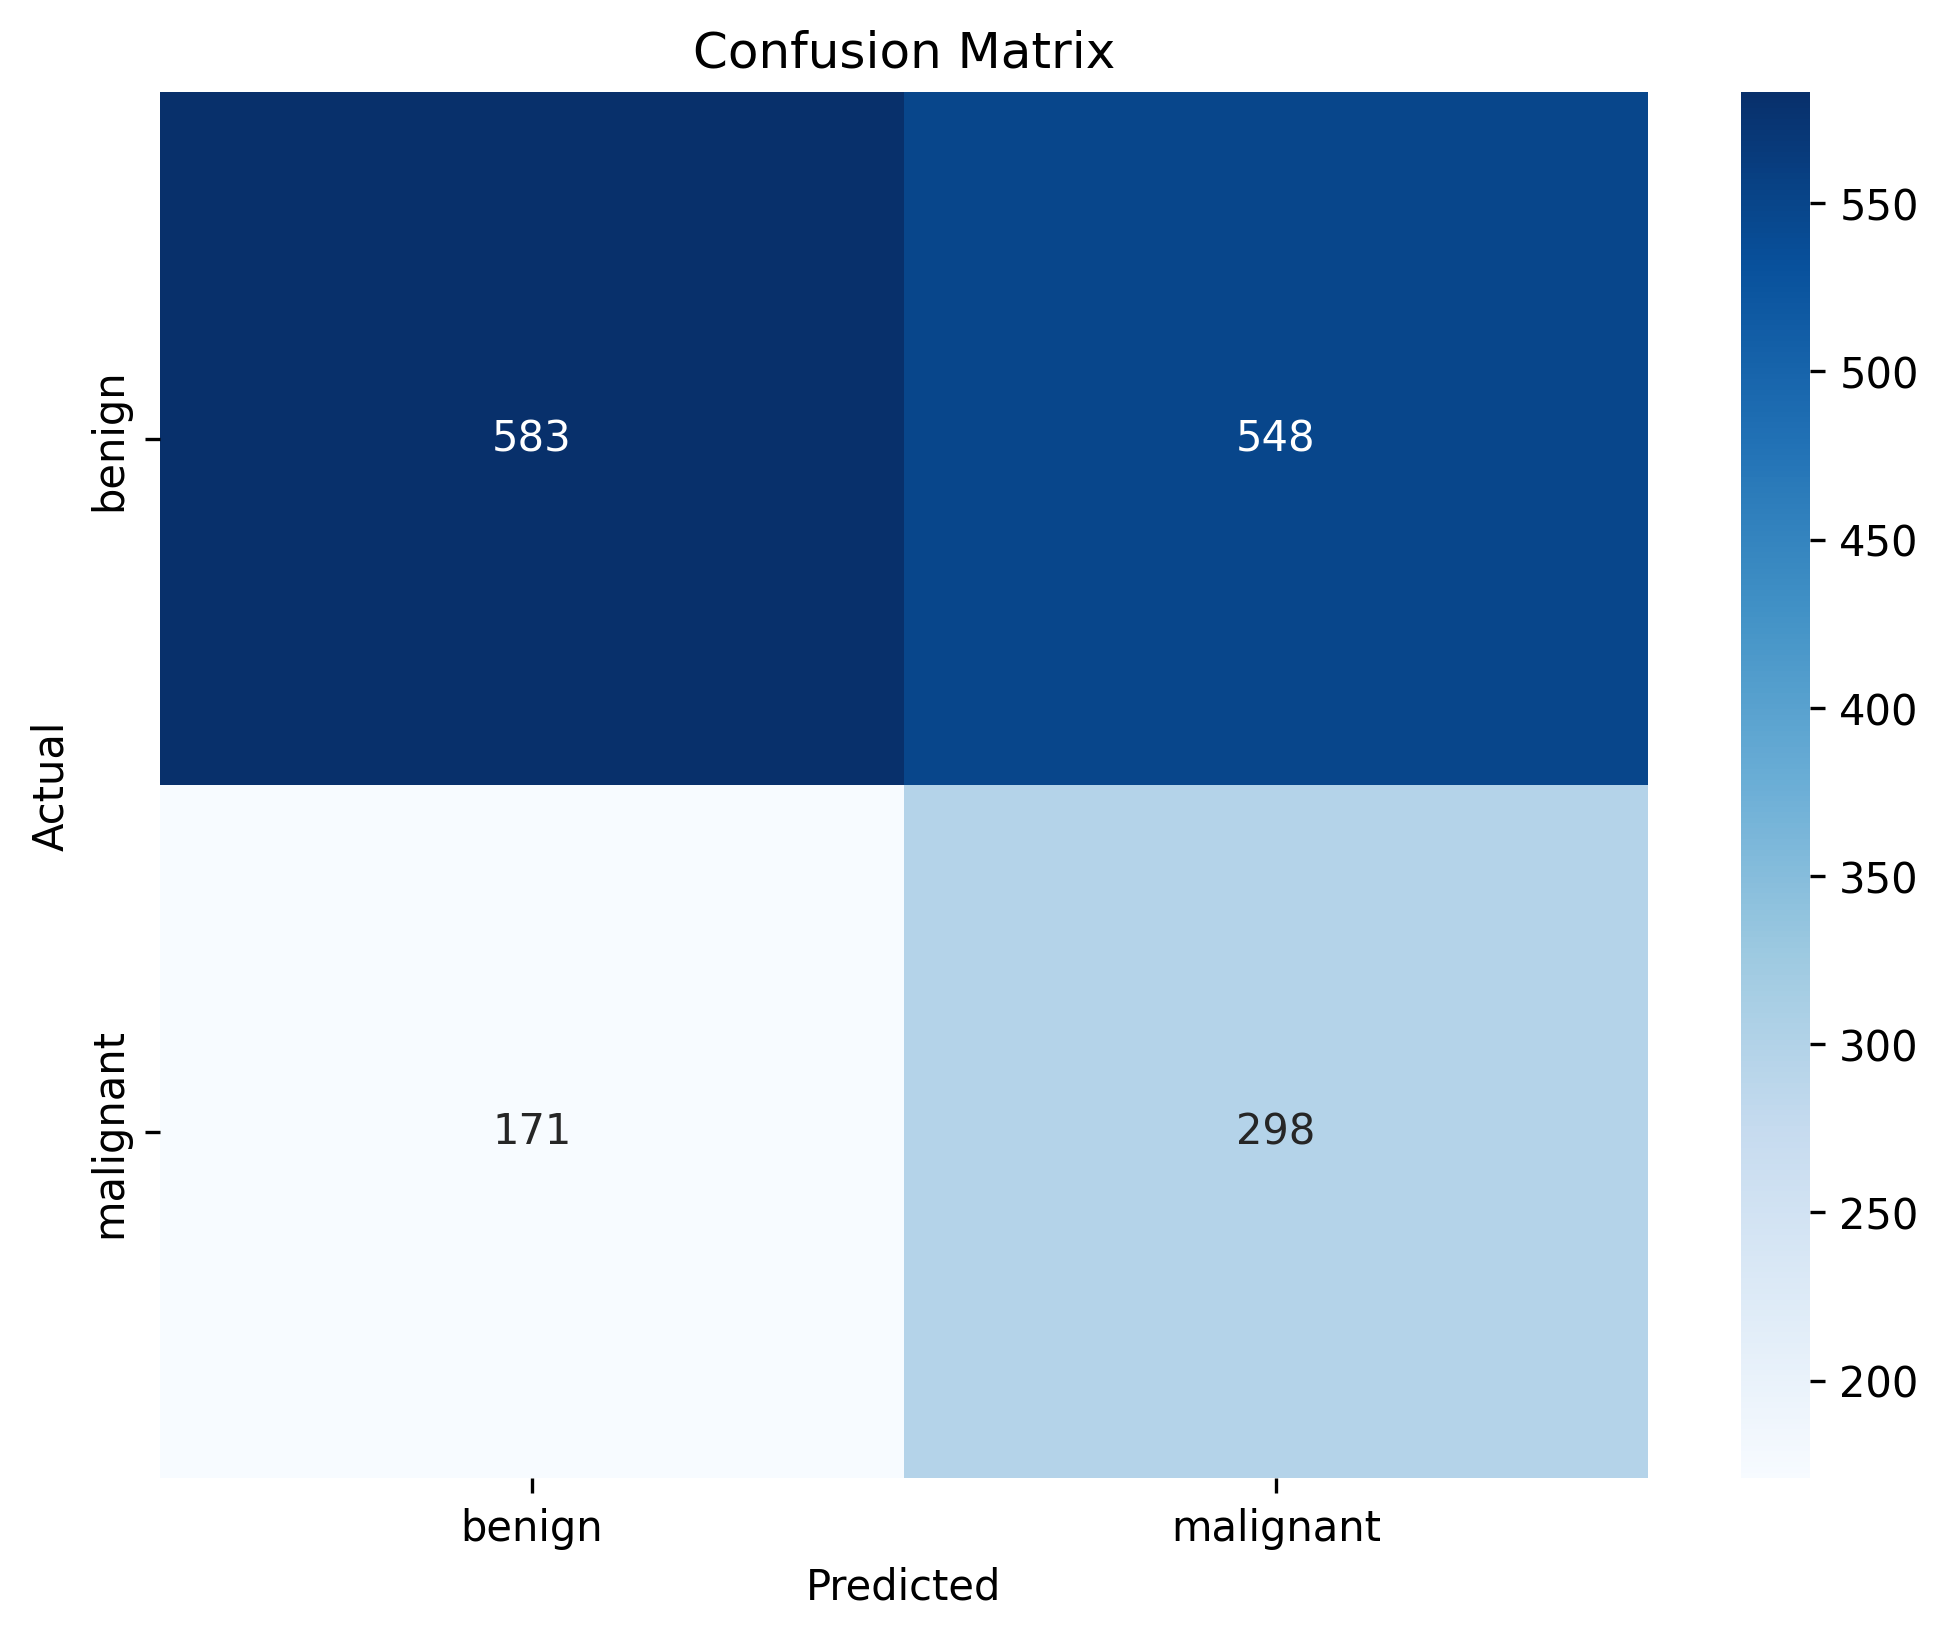
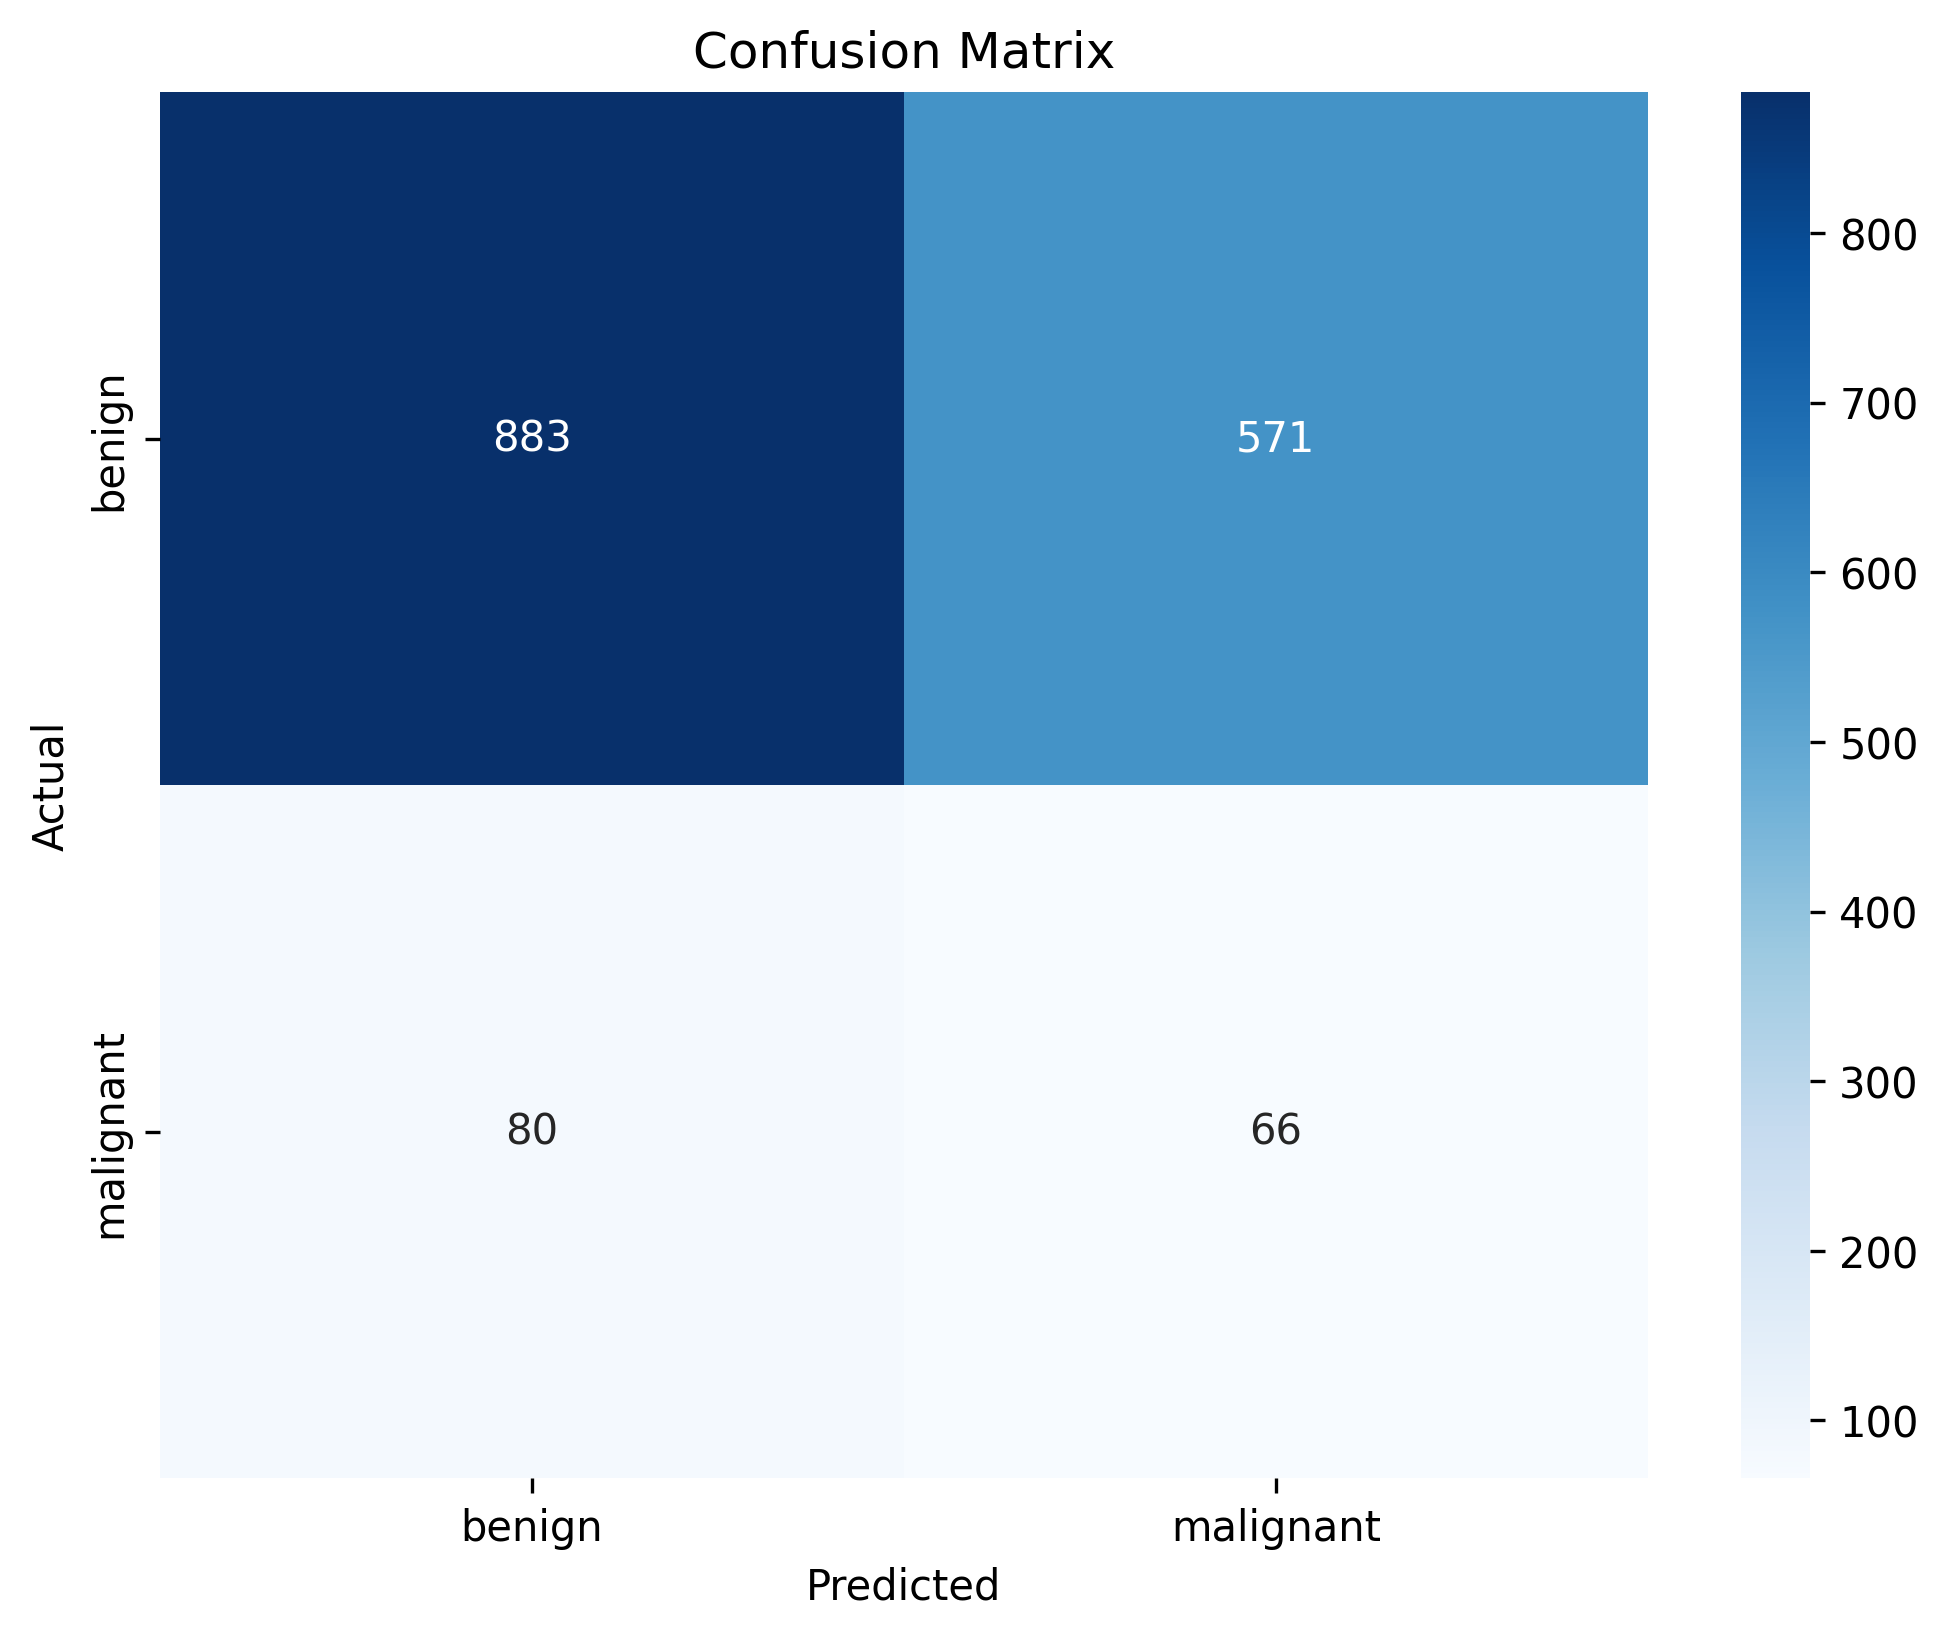
REFACTOR: some readme changes, small edits to arch and dataset. new conda env yaml

diff --git a/recognition/siamese_kaggle_48020774/dataset.py b/recognition/siamese_kaggle_48020774/dataset.py
@@ -39,23 +39,25 @@ class PreprocessLayer(layers.Layer):
 
     def __init__(self, **kwargs):
         super().__init__(**kwargs)
+        self.jit = layers.RandomColorJitter([0, 255], 0.1, 0.1, 0.1, 0.1)
 
     def call(self, inputs):
         # More diverse data augmentation for better generalization
         inputs = tf.image.random_flip_left_right(inputs)
         inputs = tf.image.random_flip_up_down(inputs)
+        inputs = self.jit(inputs)
         
         # Color augmentations with more variation
-        inputs = tf.image.random_brightness(inputs, max_delta=0.15)  # Increased from 0.1
-        inputs = tf.image.random_contrast(inputs, lower=0.8, upper=1.2)  # Increased range
-        inputs = tf.image.random_saturation(inputs, lower=0.8, upper=1.2)  # Increased range
-        inputs = tf.image.random_hue(inputs, max_delta=0.15)  # Increased from 0.1
+        # inputs = tf.image.random_brightness(inputs, max_delta=0.15)  # Increased from 0.1
+        # inputs = tf.image.random_contrast(inputs, lower=0.8, upper=1.2)  # Increased range
+        # inputs = tf.image.random_saturation(inputs, lower=0.8, upper=1.2)  # Increased range
+        # inputs = tf.image.random_hue(inputs, max_delta=0.15)  # Increased from 0.1
         
         # Random crop and resize for translation invariance
-        shape = tf.shape(inputs)
-        crop_size = tf.cast(tf.cast(shape[1:3], tf.float32) * 0.9, tf.int32)  # 90% crop
-        inputs = tf.image.random_crop(inputs, [shape[0], crop_size[0], crop_size[1], shape[3]])
-        inputs = tf.image.resize(inputs, [256, 256])
+        # shape = tf.shape(inputs)
+        # crop_size = tf.cast(tf.cast(shape[1:3], tf.float32) * 0.9, tf.int32)  # 90% crop
+        # inputs = tf.image.random_crop(inputs, [shape[0], crop_size[0], crop_size[1], shape[3]])
+        # inputs = tf.image.resize(inputs, [256, 256])
         
         return inputs
     
@@ -79,7 +81,7 @@ class TrainTestPreprocessor(layers.Layer):
         return inputs
 
 class Dataset:
-    def __init__(self, data_dir: str, max_images: int, class_split: float, train_split: int):
+    def __init__(self, data_dir: str, class_split: float, train_split: int):
         """
         Loads all images from a folder into a single 4-D tenso.
         
@@ -179,8 +181,8 @@ class Dataset:
         neg_labeled = neg_paths.map(lambda p: (p, tf.constant(0, tf.int32)), num_parallel_calls=tf.data.AUTOTUNE)
 
         # validation anchors (finite; no repeat)
-        pos_val_anchors = pos_labeled.take(k_pos).repeat()
-        neg_val_anchors = neg_labeled.take(k_neg).repeat()
+        pos_val_anchors = pos_labeled.take(k_pos)
+        neg_val_anchors = neg_labeled.take(k_neg)
 
         # training anchors (infinite; repeat + shuffle)
         pos_train_stream = pos_labeled.skip(k_pos).repeat().shuffle(8192, reshuffle_each_iteration=True)

diff --git a/recognition/siamese_kaggle_48020774/modules.py b/recognition/siamese_kaggle_48020774/modules.py
@@ -1,4 +1,4 @@
-from keras import layers, models, losses, optimizers, ops, metrics, Model
+from keras import layers, models, losses, optimizers, ops, metrics, Model, applications
 import tensorflow as tf
 import dataset
 
@@ -127,21 +127,24 @@ class EncoderHead(layers.Layer):
     def __init__(self, **kwargs):
         super().__init__(**kwargs)
         self.flat = layers.Flatten()
-        self.dense1 = layers.Dense(512, activation='relu')
-        self.dropout1 = layers.Dropout(0.7)  # Increased from 0.5
+        self.dense1 = layers.Dense(1024, activation='relu')
+        self.dropout1 = layers.Dropout(0.3)  # Increased from 0.5
         self.dense2 = layers.Dense(512, activation='relu')  # Reduced from 512
-        self.dropout2 = layers.Dropout(0.7)  # Increased from 0.5
+        self.dropout2 = layers.Dropout(0.3)  # Increased from 0.5
         self.dense3 = layers.Dense(256, activation='relu')  # Reduced from 256
+        self.dropout3 = layers.Dropout(0.3)  # Increased from 0.5
 
     def call(self, resnet_output):
         # haha python is stupid
-        return self.dense3(
-            self.dropout2(
-                self.dense2(
-                    self.dropout1(
-                        self.dense1(
-                            self.flat(
-                                resnet_output
+        return self.dropout3(
+            self.dense3(
+                self.dropout2(
+                    self.dense2(
+                        self.dropout1(
+                            self.dense1(
+                                self.flat(
+                                    resnet_output
+                                )
                             )
                         )
                     )
@@ -151,8 +154,8 @@ class EncoderHead(layers.Layer):
 
 
 def construct_classifier():
-    base_cnn = tf.keras.applications.ResNet50(
-        include_top=False, 
+    base_cnn = applications.ResNet50(
+        include_top=False,
         weights='imagenet', 
         input_shape=INPUT_SHAPE
     )

diff --git a/recognition/siamese_kaggle_48020774/config.py b/recognition/siamese_kaggle_48020774/config.py
@@ -12,7 +12,7 @@ class Config(object):
         if cls._instance is None:
             print('Creating new instance')
             cls._instance = cls.__new__(cls)
-            cls._config_json = json.load(open('recognition/siamese_kaggle_48020774/utility/config.json'))
+            cls._config_json = json.load(open('utility/config.json'))
             # Put any initialization here.
         return cls._instance
 

diff --git a/recognition/siamese_kaggle_48020774/train.py b/recognition/siamese_kaggle_48020774/train.py
@@ -53,7 +53,6 @@ def train(model : Model, dataset : dataset.Dataset, epochs : int):
         epochs=epochs,
         steps_per_epoch=100,  # Increased from 60 for better learning
         validation_data=test_ds,
-        validation_steps=50,  # Increased proportionally
         callbacks=[save_callback, lr_scheduler, early_stopping]
     )
     print("Recording history...")

diff --git a/recognition/siamese_kaggle_48020774/predict.py b/recognition/siamese_kaggle_48020774/predict.py
@@ -7,7 +7,6 @@ if __name__ == "__main__":
     print("Preparing dataset...")
     data = dataset.Dataset(
         config['data_dir'],
-        config["max_images_in_ds"],
         config['class_split'],
         config['train_split']
     )

diff --git a/recognition/siamese_kaggle_48020774/README.md b/recognition/siamese_kaggle_48020774/README.md
@@ -2,7 +2,7 @@
 
 <h2> Prerequisites </h2>
 
-Ensure you have [Miniconda](https://www.anaconda.com/docs/getting-started/miniconda/main) installed.
+Ensure you have [Anaconda](https://www.anaconda.com/docs/getting-started/anaconda/main) installed.
 
 <h2> Notes </h2>
 
@@ -36,9 +36,6 @@ Below is a list of hyperparameters and their functions
 | Name | Function |
 | ---- | -------- |
 | `data_dir`         | Directory where the dataset is stored relative to working directory|
-| `train_size`       | the number of images to use in the training dataset          |
-| `test_size`        | the number of images to use in the testing dataset           |
-| `validate_size`    | the number of images to use in the validation dataset        |
 | `class_split`      | Proportion of positive (malignant) samples in the dataset.   |
 | `batch_size`       | Number of samples per training batch.                  |
 | `epochs`           | Number of training epochs.                             |
@@ -207,30 +204,6 @@ dataset into RAM before training, not only causes the training metrics to not be
 but also forces the training to be run on the CPU, even when GPU support is avaliable
 and used for the other case. If you would like to resolve this issue yourself, I invite
 you go ahead, I however, refuse to spend more hours fighting with environment issues.
-
-The following is a message that I would like the corrdinator to read, along with any 
-other persons who care about course structure and assessment, although I doubt it 
-reach their eyes.
-
-This assignment is not difficult. Reading a few websites, remembering how to use
-tensorflow and implementing the relevant model can be done in 2 maybe 3 hours. If
-the purpose of this assignment is to teach students about the research process for
-implementing a model, it does the bare minimum for passable. Unfortunately, this
-process comes with unrelenting environment issues. I, and I am certain most others,
-have spent countless hours attempting endless solutions to creating a python environment
-that correctly supports the GPU when training. Since my opinion has recently become what
-can be considered professional, I would like to state that it is my professional opinion,
-that the lack of support resources avaliable for students in relation to preconfigured 
-environments is an utter failure of the UQ EAIT department, and is a direct reflection of
-the ability of the coordinator to provide students with the quality of tertiary 
-education that they pay for. Don't give me shit like "oh just use Rangpur its already set
-up and has enough compute for everyone". If that is something that you genuinely
-believe, then you are either kidding yourself or profoundly negligent of the fact that
-nobody has multiple hours to wait for a single process to even begin running. From 
-where I stand, it seems to me that "Shakes" has put in minimal effort to arranging 
-this course, not even bothering to write new assesment questions or assignments for
-multiple years. It is clear that he does not care. The students are the ones who pay you,
-make it worth our money.
 
 ---
 
